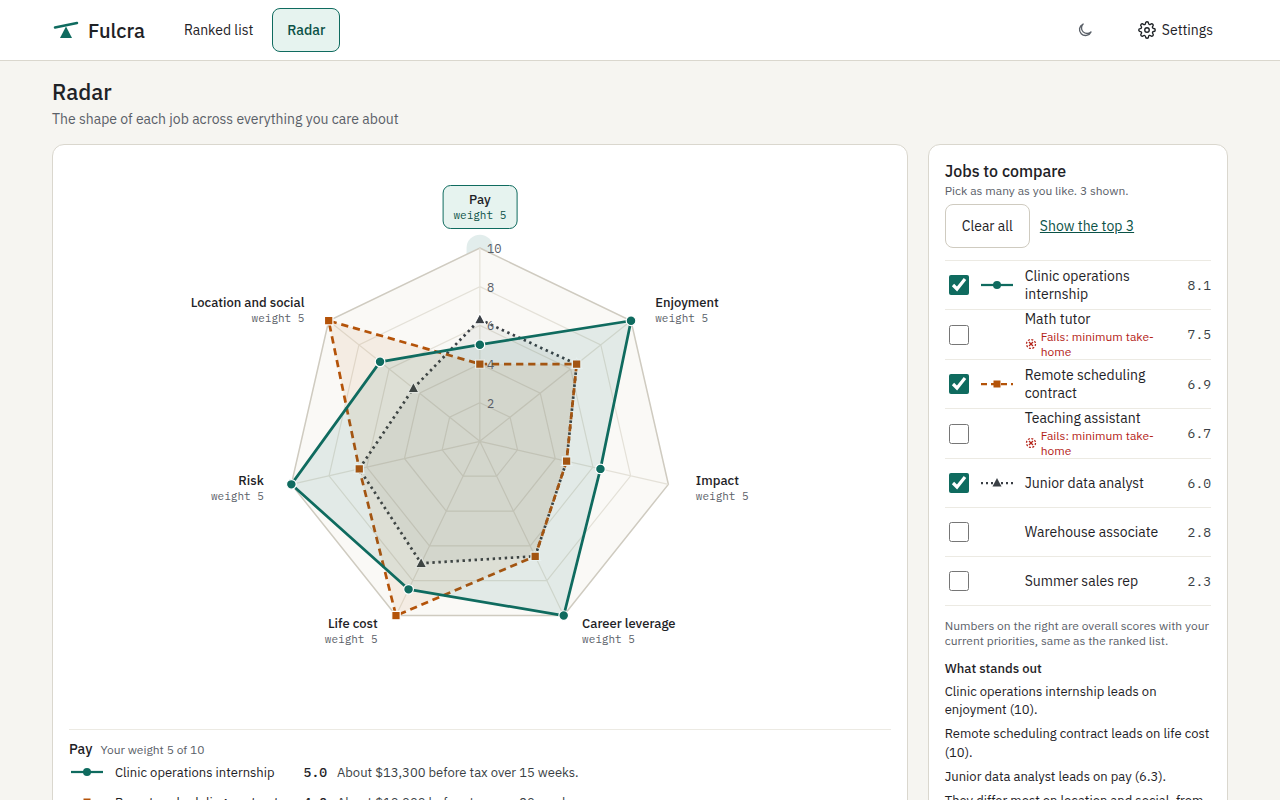
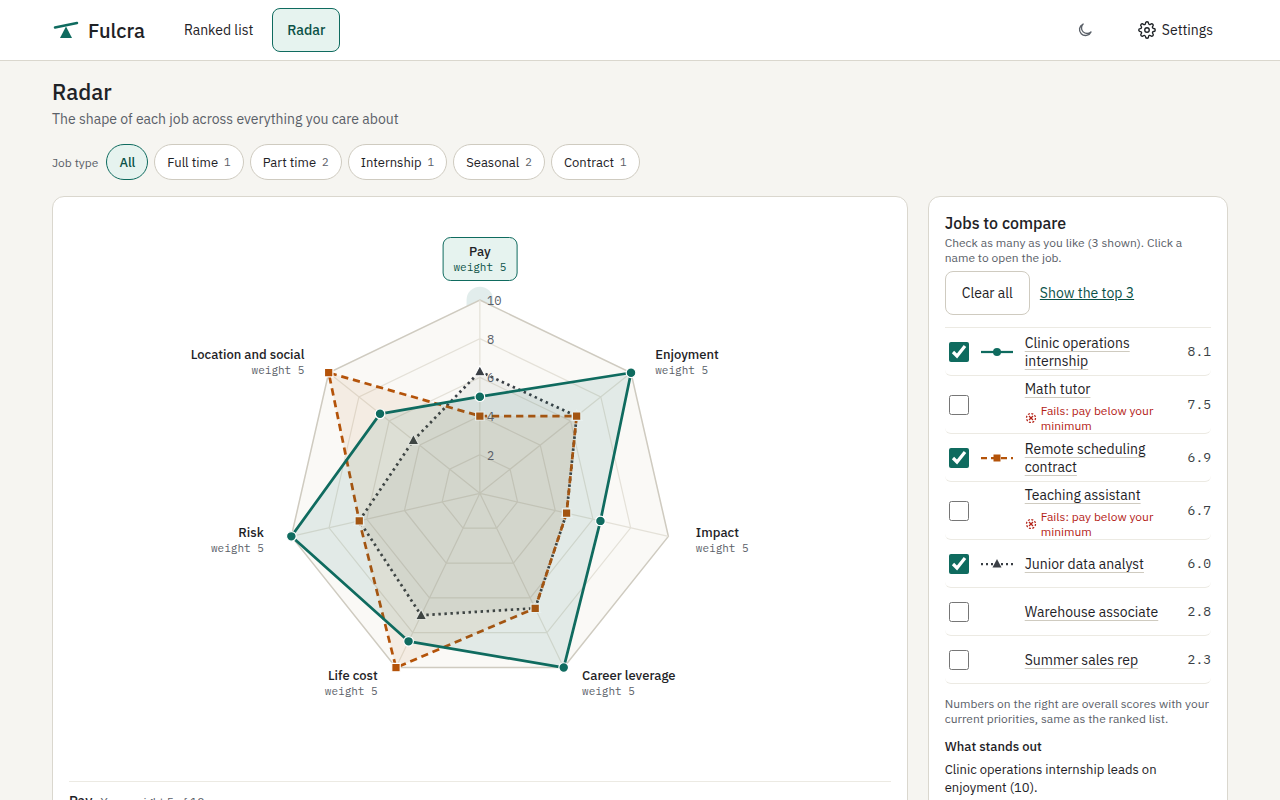
Docs for the beta feedback round
Claude-Session: https://claude.ai/code/session_01WQEhJPiwENJrbVR7HP5TJw

diff --git a/docs/blueprint.md b/docs/blueprint.md
@@ -12,6 +12,13 @@
 
 ## Changelog
 
+- **v1.4 (October 10, 2026, beta feedback round):** changes after a friend tested the build. Where this list and an older section disagree, this list wins. Strings added in this round live only in `messages.json`, which is the source of truth over section 19.
+  - **Email (9.4, 12.2, 12.3):** `email.accounts` replaces `provider` and `accountIndex`: any mix of Gmail accounts (`gmail:N` for `mail/u/N`) and one Outlook. Each inbox is checked in turn and keeps its own `lastCheck` and `lastOkAt`; Gmail's sign-in check reads the address from the tab title. Old settings migrate. A check opens an inactive tab in a collapsed tab group named Fulcra in the last focused normal window (new `tabGroups` permission), or a minimized window when no window is open. If the person closes the tab, the check reports `MAIL_CLOSED` ("the tab was closed") instead of an error.
+  - **Pay (5.5, 10):** `about.windowWeeks` may be null ("No set time frame"): pay is then compared as a rate, ignoring job length. `about.payUnit` (`hour`, `year`, or `total` over the time frame) sets the unit of the pay goal and of the minimum pay; changing it converts both, assuming 40 hours a week. With a time frame, pay is still take-home over it. Saved goals become `total`.
+  - **Pay sanity (5.6):** the prompt says where to read the pay unit, that K means thousands, and what range each unit falls in. After scoring, an outlier is fixed in code when the answer is obvious ("$110K" read as 110, a unit written next to the amount, or the only unit the amount fits); the model is asked only when several units fit.
+  - **Job types (5.3, 9.2):** "Job types to skip" is no longer a dealbreaker. A Job type row above the ranked list and radar (`ui.jobTypes`, empty for all) filters both; ranking, spreading, and the best-paying job are worked out within the filter. Old skip lists become the filter.
+  - **Setup (10):** "Skip this step" skips only the current step. The priority sliders have an (i) tooltip per dimension and end labels ("Doesn't matter" to "Matters most").
+  - **Radar (9.2):** a job's name opens it in the drawer over the radar (`#radar/<id>`); the checkbox alone puts it on the chart. Hovering or focusing a row highlights that job on the chart, or previews it in gray if it isn't on the chart.
 - **v1.3 (October 10, 2026, first feedback round):** changes after Justin used the build. Where this list and an older section disagree, this list wins.
   - **Email (12.3):** Gmail selectors checked against live Gmail (the Back button is a `title` attribute; counts can read "of many"). Imports split date ranges until each fits one page, so they read past the newest 50 emails; scheduled checks look back to the last good check (2 to 30 days). Checks report their result to the page and never fail silently; switching Gmail/Outlook doesn't need a disconnect; the Gmail account is picked in the email settings. Outlook tries outlook.live.com then outlook.office.com and must pass two guards (the search changes the list; each opened message shows an alert sender). The Handshake sender is `handshake@g.joinhandshake.com`. LinkedIn alerts hold about 6 jobs each. Promotional link text is never read as a job, and the model's `not_a_job` flag folds non-jobs away.
   - **Scoring (5.7, 5.9):** scores are spread across the person's open jobs per dimension by default (`scoring.spread`), from 3 jobs and a 1-point range up; overrides aren't stretched. The prompt has one 1-10 scale, treats every detail as evidence, asks for the reason before the score, allows half points, and works out remote, relocation (against home base), languages, and job type. Zero pay counts as missing. `tests/live/calibration.live.test.ts` measures spread and blank facts.
@@ -347,7 +354,7 @@ Layout: top bar with Fulcra wordmark, tabs **Ranked list** | **Radar**, and a ge
 
 ### 9.4 Background email window
 
-A minimized, unfocused Chrome window (`chrome.windows.create({state: "minimized", focused: false})`) loads the mail search page, so no tab appears in the user's current window. If minimized windows aren't allowed, use an inactive tab in the current window and close it when done. The badge shows "…" during a check.
+(v1.4) An inactive tab in a collapsed tab group named Fulcra, in the last focused normal window, loads the mail page; with no normal window open, a minimized, unfocused window does. Each inbox gets its own tab in turn, closed when done. The badge shows "…" during a check.
 
 ---
 
@@ -472,13 +479,17 @@ interface Settings {
            communityImportance: "very" | "somewhat" | "not";
            remote: "yes" | "maybe" | "no"; relocate: "yes" | "maybe" | "no";
            languages: { name: string; level: "native" | "fluent" | "conversational" }[];
-           windowWeeks: number; payGoal: number | null };
-  dealbreakers: { minTakeHome: number | null; maxHours: number | null;
-                  mustRemote: boolean; noRelocation: boolean;
-                  excludeTypes: string[]; languageGap: boolean };
-  email: { provider: "gmail" | "outlook" | null; intervalMinutes: number;
-           senders: string[]; lastCheck: { at: number; result: string } | null;
-           accountIndex: number };       // Gmail u/N, developer setting, default 0
+           windowWeeks: number | null;   // null: no set time frame (v1.4)
+           payUnit: "hour" | "year" | "total"; payGoal: number | null };
+  dealbreakers: { minTakeHome: number | null;  // in payUnit (v1.4)
+                  maxHours: number | null;
+                  mustRemote: boolean; noRelocation: boolean; languageGap: boolean };
+  email: { accounts: { id: string; provider: "gmail" | "outlook"; index: number;
+                       address: string | null; lastCheck: CheckSummary | null;
+                       lastOkAt: number | null }[];   // v1.4
+           intervalMinutes: number; senders: string[];
+           lastCheck: { at: number; result: string; count: number | null } | null;
+           importDays: number | null };
   scoring: { autoScore: boolean; upgradeOnVisit: boolean;
              notify: boolean; notifyThreshold: number };
   ui: { showOutsideDealbreakers: boolean | null;  // null = automatic (fewer than 5 pass)
@@ -665,7 +676,7 @@ Pin every version exactly (no `^` or `~`). Pick versions at least two weeks old.
 
 **Not allowed:** chart libraries (charts are hand-drawn SVG), analytics SDKs, remote fonts or scripts, and anything that phones home.
 
-**Manifest permissions:** `storage`, `unlimitedStorage`, `alarms`, `tabs`, `scripting`, `activeTab`, `contextMenus`, `notifications`.
+**Manifest permissions:** `storage`, `unlimitedStorage`, `alarms`, `tabs`, `tabGroups` (v1.4), `scripting`, `activeTab`, `contextMenus`, `notifications`.
 
 **Host permissions:** `https://www.linkedin.com/*`, `https://app.joinhandshake.com/*`, `https://*.joinhandshake.com/*`, `https://www.indeed.com/*`, `https://mail.google.com/*`, `https://outlook.live.com/*`, `https://outlook.office.com/*`, `https://api.openai.com/*`.
 
@@ -1224,11 +1235,11 @@ The README must cover:
 - Requires a paid OpenAI API account. There is no free scoring option in v1.
 - Scores are a model's judgment from the posting text and can be wrong. Reasons are shown so users can judge, and overrides are always available.
 - Pay ignores taxes, benefits, and equity unless the posting states a total. Estimated pay is labeled.
-- Email checks need Chrome to be open and the user signed in to Gmail or Outlook in the same browser profile. Only the first Gmail account (`u/0`) is checked by default.
+- Email checks need Chrome to be open and the user signed in to Gmail or Outlook in the same browser profile. Each Gmail account to read is added separately (v1.4).
 - Email reading depends on Gmail's and Outlook's page layouts, which can change without notice and break checks until Fulcra is updated.
 - Jobs from alert emails get only a preliminary score until the posting is opened. Fulcra can't always tell from an email that a job has closed.
 - LinkedIn, Handshake, and Indeed layouts can change and break page reading. Pasting text always works.
-- A brief minimized window appears in the taskbar during email checks.
+- During email checks, a collapsed "Fulcra" tab group briefly appears in the tab strip.
 - The API key is stored unencrypted in the browser's extension storage.
 - Only Chrome is tested. Edge and Firefox builds may work but aren't supported.
 - English only.

diff --git a/README.md b/README.md
@@ -38,7 +38,7 @@ Fulcra uses OpenAI to read and score jobs, with your own API key. OpenAI bills y
 
 - **Score a posting:** open a job posting, select the Fulcra icon, then **Score this job**. You can also press `Alt+Shift+F`, or right-click the page or a link and choose **Score this job with Fulcra**.
 - **Paste a link or text:** in the popup, paste a job link, or the text of an offer with no posting, like a message from a friend.
-- **Job alert emails:** in Settings > Job alert emails, connect Gmail or Outlook (and pick which Gmail account, if you're signed in to more than one). Once a day (or as often as you choose), Fulcra opens your inbox in a minimized window, reads LinkedIn and Handshake job alerts that arrived since the last check, and closes it. **Import past alerts** reads the last 7, 30, or 90 days, or everything, with an estimate of the jobs and cost for each. Your emails stay marked unread, and nothing else in your inbox is read. Jobs from alerts get a **Preliminary** score from the email; open the posting and Fulcra upgrades it to a full score. Promotions and other non-job emails are left out, and anything the AI decides isn't a job listing is folded into **Not job listings**.
+- **Job alert emails:** in Settings > Job alert emails, add each inbox that gets job alerts: one or more Gmail accounts, Outlook, or both. Once a day (or as often as you choose), Fulcra opens each inbox in turn in a background tab, tucked into a collapsed tab group named Fulcra, reads LinkedIn and Handshake job alerts that arrived since the last check, and closes it. **Import past alerts** reads the last 7, 30, or 90 days, or everything, with an estimate of the jobs and cost for each. Your emails stay marked unread, and nothing else in your inbox is read. Jobs from alerts get a **Preliminary** score from the email; open the posting and Fulcra upgrades it to a full score. Promotions and other non-job emails are left out, and anything the AI decides isn't a job listing is folded into **Not job listings**.
 - **Compare:** the **Ranked list** is home. The **Radar** compares up to three jobs across everything you care about.
 - **Disagree with a score?** Open the job and select the pencil next to the score to type your own. If you keep correcting the same thing, Fulcra offers to change that weight.
 - **Closed postings:** when a posting you open says it's no longer accepting applications, Fulcra moves it to **Closed or expired** at the bottom of the list.
@@ -56,7 +56,7 @@ and the pay score is
 
 > pay score = 1 + 9 × min(1, max(0, T ÷ G))
 
-where G is your pay goal, or the best take-home among your open jobs if you didn't set one. Taxes aren't modeled; everything is "before tax." When a posting has no pay, the model estimates it and Fulcra labels it **Estimate**. When a number is far off for its unit (like $16 a year), Fulcra asks the model which unit was meant and shows **Pay unit corrected** with an Undo.
+where G is your pay goal, or the best take-home among your open jobs if you didn't set one. If you pick **No set time frame**, there's no T: jobs are compared by pay rate (per hour or per year, your choice), however long they last. Your pay goal and the lowest pay you'd take can be per hour, per year, or a total over your time frame; changing the unit converts them at 40 hours a week. Taxes aren't modeled; everything is "before tax." When a posting has no pay, the model estimates it and Fulcra labels it **Estimate**. When a number can't be right for its unit (like $16 a year or $110,000 an hour), Fulcra fixes it: it reads "$110K" as $110,000, trusts a unit written next to the amount, or picks the only unit the amount fits. When more than one unit could fit, it asks the model. Either way the job shows **Pay unit corrected** with an Undo.
 
 **Spread across your jobs.** By default (Settings > Scoring), each dimension's AI scores are stretched across your open jobs so the best one on it shows 10 and the weakest shows 1, which makes small differences easy to see. It needs at least three scored jobs and at least a point of difference; your own scores are never stretched. Turn it off to see the raw scores.
 
@@ -66,7 +66,7 @@ where G is your pay goal, or the best take-home among your open jobs if you didn
 
 over the dimensions that have a score. If every weight is 0, they count equally.
 
-**Dealbreakers** are checked against facts from the posting, never the model's opinion. If Fulcra can't tell, the job doesn't fail.
+**Dealbreakers** are checked against facts from the posting, never the model's opinion. If Fulcra can't tell, the job doesn't fail. To see only one kind of job (internships, say), use the **Job type** buttons above the ranked list and radar; the filter is shared by both.
 
 ## Privacy
 
@@ -93,7 +93,7 @@ See [PRIVACY.md](PRIVACY.md) for details.
 - Email reading depends on Gmail's and Outlook's page layouts, which can change without notice and break checks until Fulcra is updated.
 - Jobs from alert emails get only a preliminary score until you open the posting. Fulcra can't always tell from an email that a job has closed.
 - LinkedIn, Handshake, and Indeed layouts can change and break page reading. Pasting text always works.
-- A minimized window briefly appears in the taskbar during email checks.
+- During email checks, a collapsed "Fulcra" tab group briefly appears in your tab strip. If you close it, that check stops and says so; the next one tries again.
 - The API key is stored unencrypted in the browser's extension storage.
 - Only Chrome is tested. English only.
 - No after-the-job ratings, no import, no sync between computers, no mobile app.

diff --git a/PRIVACY.md b/PRIVACY.md
@@ -22,7 +22,7 @@ Fulcra sends nothing else, to anyone, ever. It has no analytics, crash reporting
 
 ## Job alert emails
 
-If you connect Gmail or Outlook, Fulcra opens your inbox in a minimized window on the schedule you choose, searches only for emails from the alert senders listed in Settings (LinkedIn and Handshake by default), reads the job cards in those emails, marks them unread again, and closes the window. It reads no other email: in Outlook, Fulcra checks that each message it opens shows an alert sender's address and stops if one doesn't. It uses your existing signed-in session in Chrome and never sees your password. Email content is not sent anywhere; only the job title, company, location, and pay from each alert are sent to OpenAI for a preliminary score.
+If you connect Gmail or Outlook (one inbox or several), Fulcra opens each inbox in turn in a background tab, tucked into a collapsed tab group named Fulcra, on the schedule you choose, searches only for emails from the alert senders listed in Settings (LinkedIn and Handshake by default), reads the job cards in those emails, marks them unread again, and closes the tab. It reads no other email: in Outlook, Fulcra checks that each message it opens shows an alert sender's address and stops if one doesn't. It uses your existing signed-in session in Chrome and never sees your password. Email content is not sent anywhere; only the job title, company, location, and pay from each alert are sent to OpenAI for a preliminary score.
 
 ## Job pages
 
@@ -43,10 +43,11 @@ Fulcra keeps jobs for 90 days after you last saw them by default (Settings > You
 | `storage`, `unlimitedStorage`    | Save your jobs and settings on this computer                                      |
 | `alarms`                         | Run scheduled email checks and retry scoring                                      |
 | `tabs`, `scripting`, `activeTab` | Read the job page you ask Fulcra to score, and run email checks                   |
+| `tabGroups`                      | Keep the email-check tab in a collapsed "Fulcra" group instead of among your tabs |
 | `contextMenus`                   | "Score this job with Fulcra" on right-click                                       |
 | `notifications`                  | Tell you about strong matches from email checks                                   |
 | LinkedIn, Handshake, Indeed      | Read job postings on these sites                                                  |
-| Gmail, Outlook                   | Read job alert emails, if you connect one                                         |
+| Gmail, Outlook                   | Read job alert emails, if you connect an inbox                                    |
 | `api.openai.com`                 | Score jobs with your key                                                          |
 | Other sites (optional)           | Asked one site at a time, only when you paste a link from a site not listed above |
 

diff --git a/CHANGELOG.md b/CHANGELOG.md
@@ -17,3 +17,8 @@ First build of Fulcra.
 - Edit a score in place; pages of 10 to 100 jobs; closed postings and non-job emails fold away; the radar compares any number of jobs, with missing scores in red.
 - Email checks report what happened, read past imports in full, pick the Gmail account, and switch between Gmail and Outlook directly.
 - Dark mode.
+- Several inboxes at once (say, a Gmail and an Outlook), checked in a collapsed "Fulcra" tab group instead of a minimized window.
+- Pay: a "No set time frame" choice, and a pay goal and minimum per hour, per year, or in total. Impossible pay units ("$110,000 an hour") are fixed.
+- A job type filter on the ranked list and radar, instead of a "job types to skip" dealbreaker.
+- The radar opens a job when you click its name and highlights it when you hover.
+- Setup: Skip this step skips one step; the priority sliders explain each dimension and what 0 and 10 mean.
